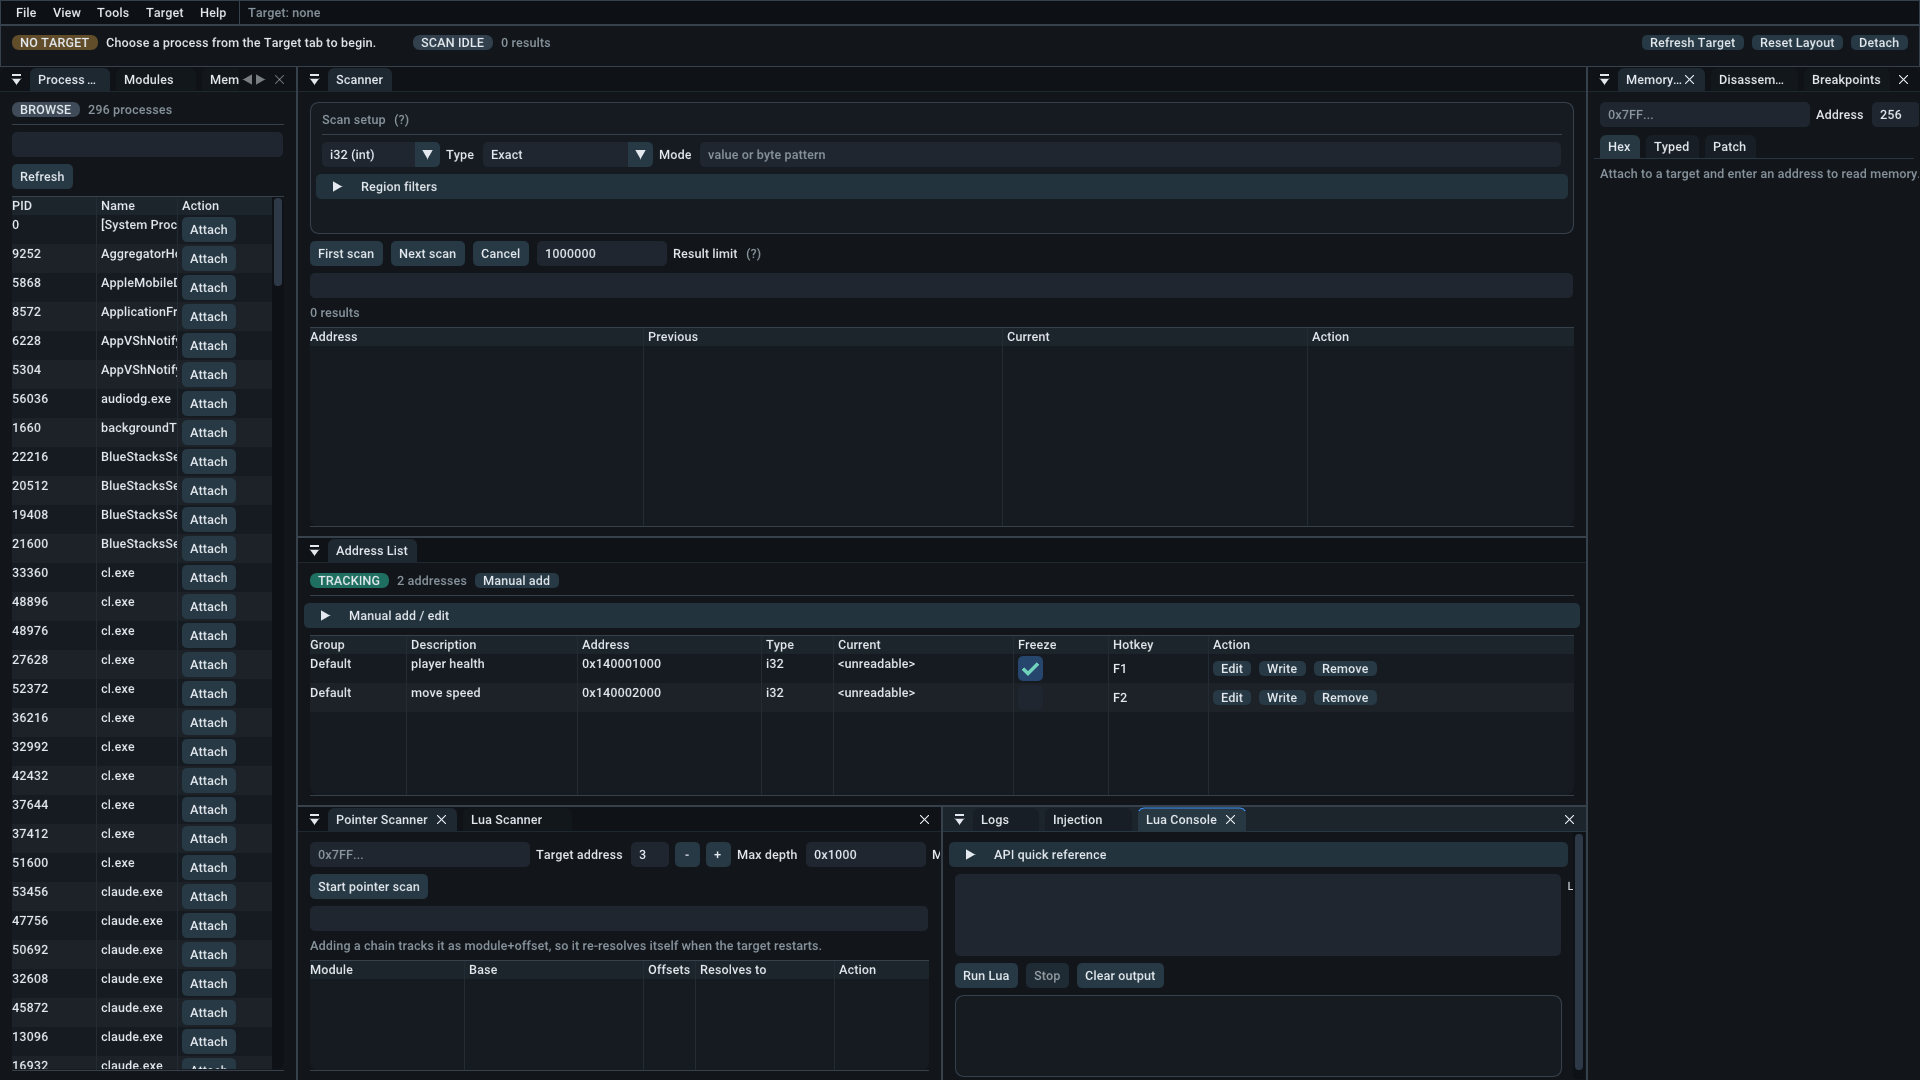
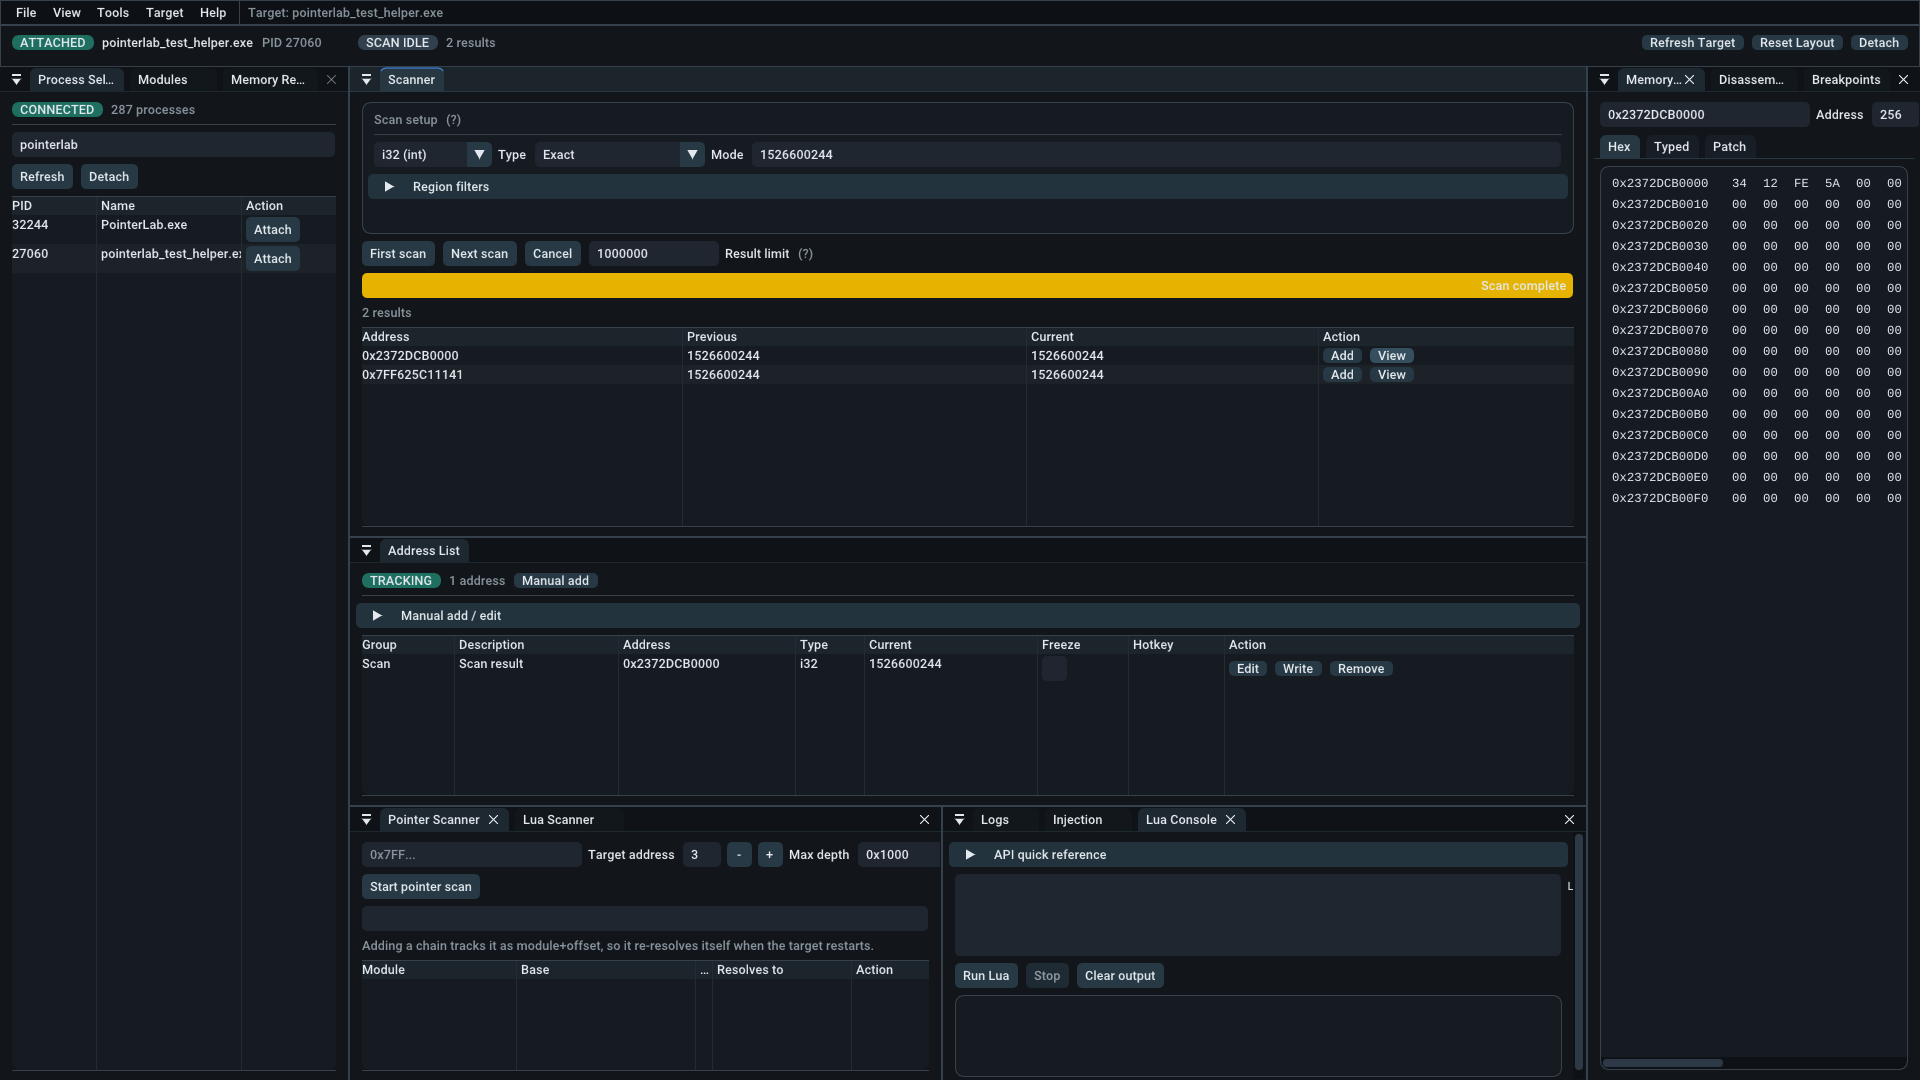
Retake the README screenshot against the test helper
The old image was captured with the process list unfiltered, so it published
the machine's full running-process inventory. The new one filters the list to
the target and shows the tool mid-workflow instead of idle: attached to the
bundled test helper, an exact scan for its known i32, and the memory view on
the same address confirming 34 12 FE 5A.

diff --git a/README.md b/README.md
@@ -4,6 +4,9 @@ A Windows x64 user-mode memory research tool built in C++20 with a Dear ImGui do
 
 ![Pointer Lab](docs/screenshot.png)
 
+*Attached to the bundled test helper, after an exact scan for a known i32. The
+memory view shows the same address: `34 12 FE 5A` is `0x5AFE1234` little-endian.*
+
 Pointer Lab attaches to a running 64-bit process, searches its memory for values,
 tracks the addresses it finds, and lets you read, write, freeze, disassemble and
 patch them. It is a research and learning tool — see
